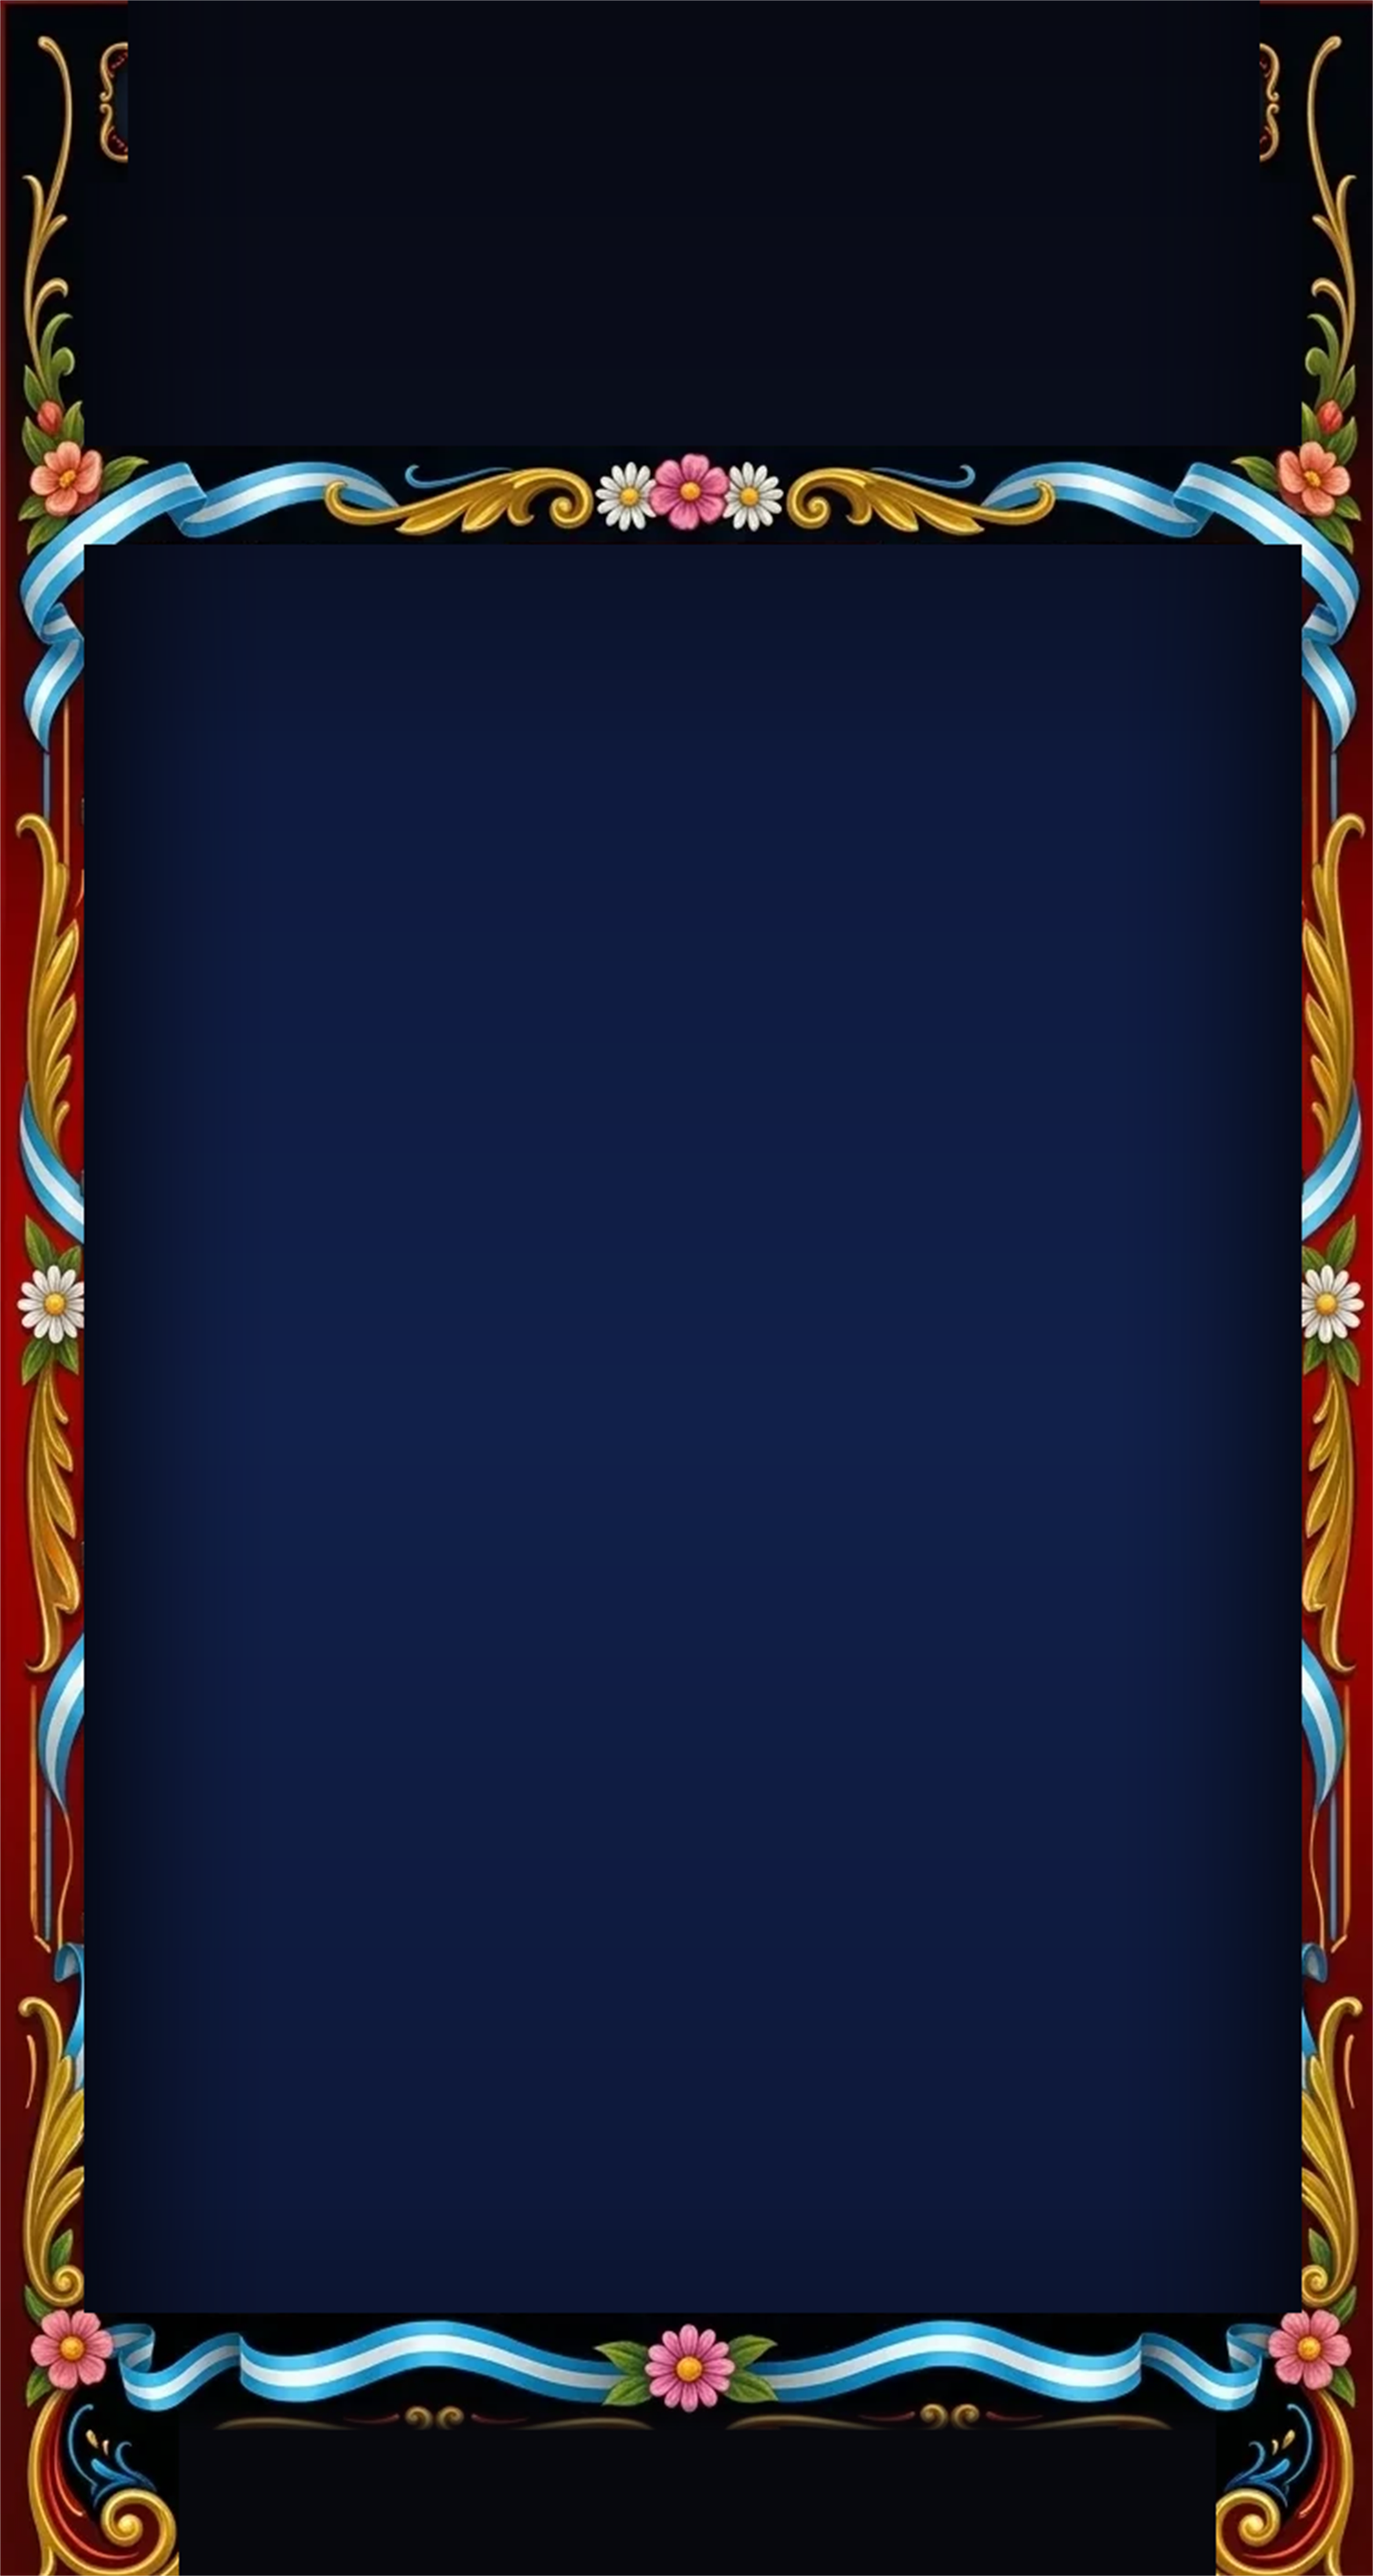
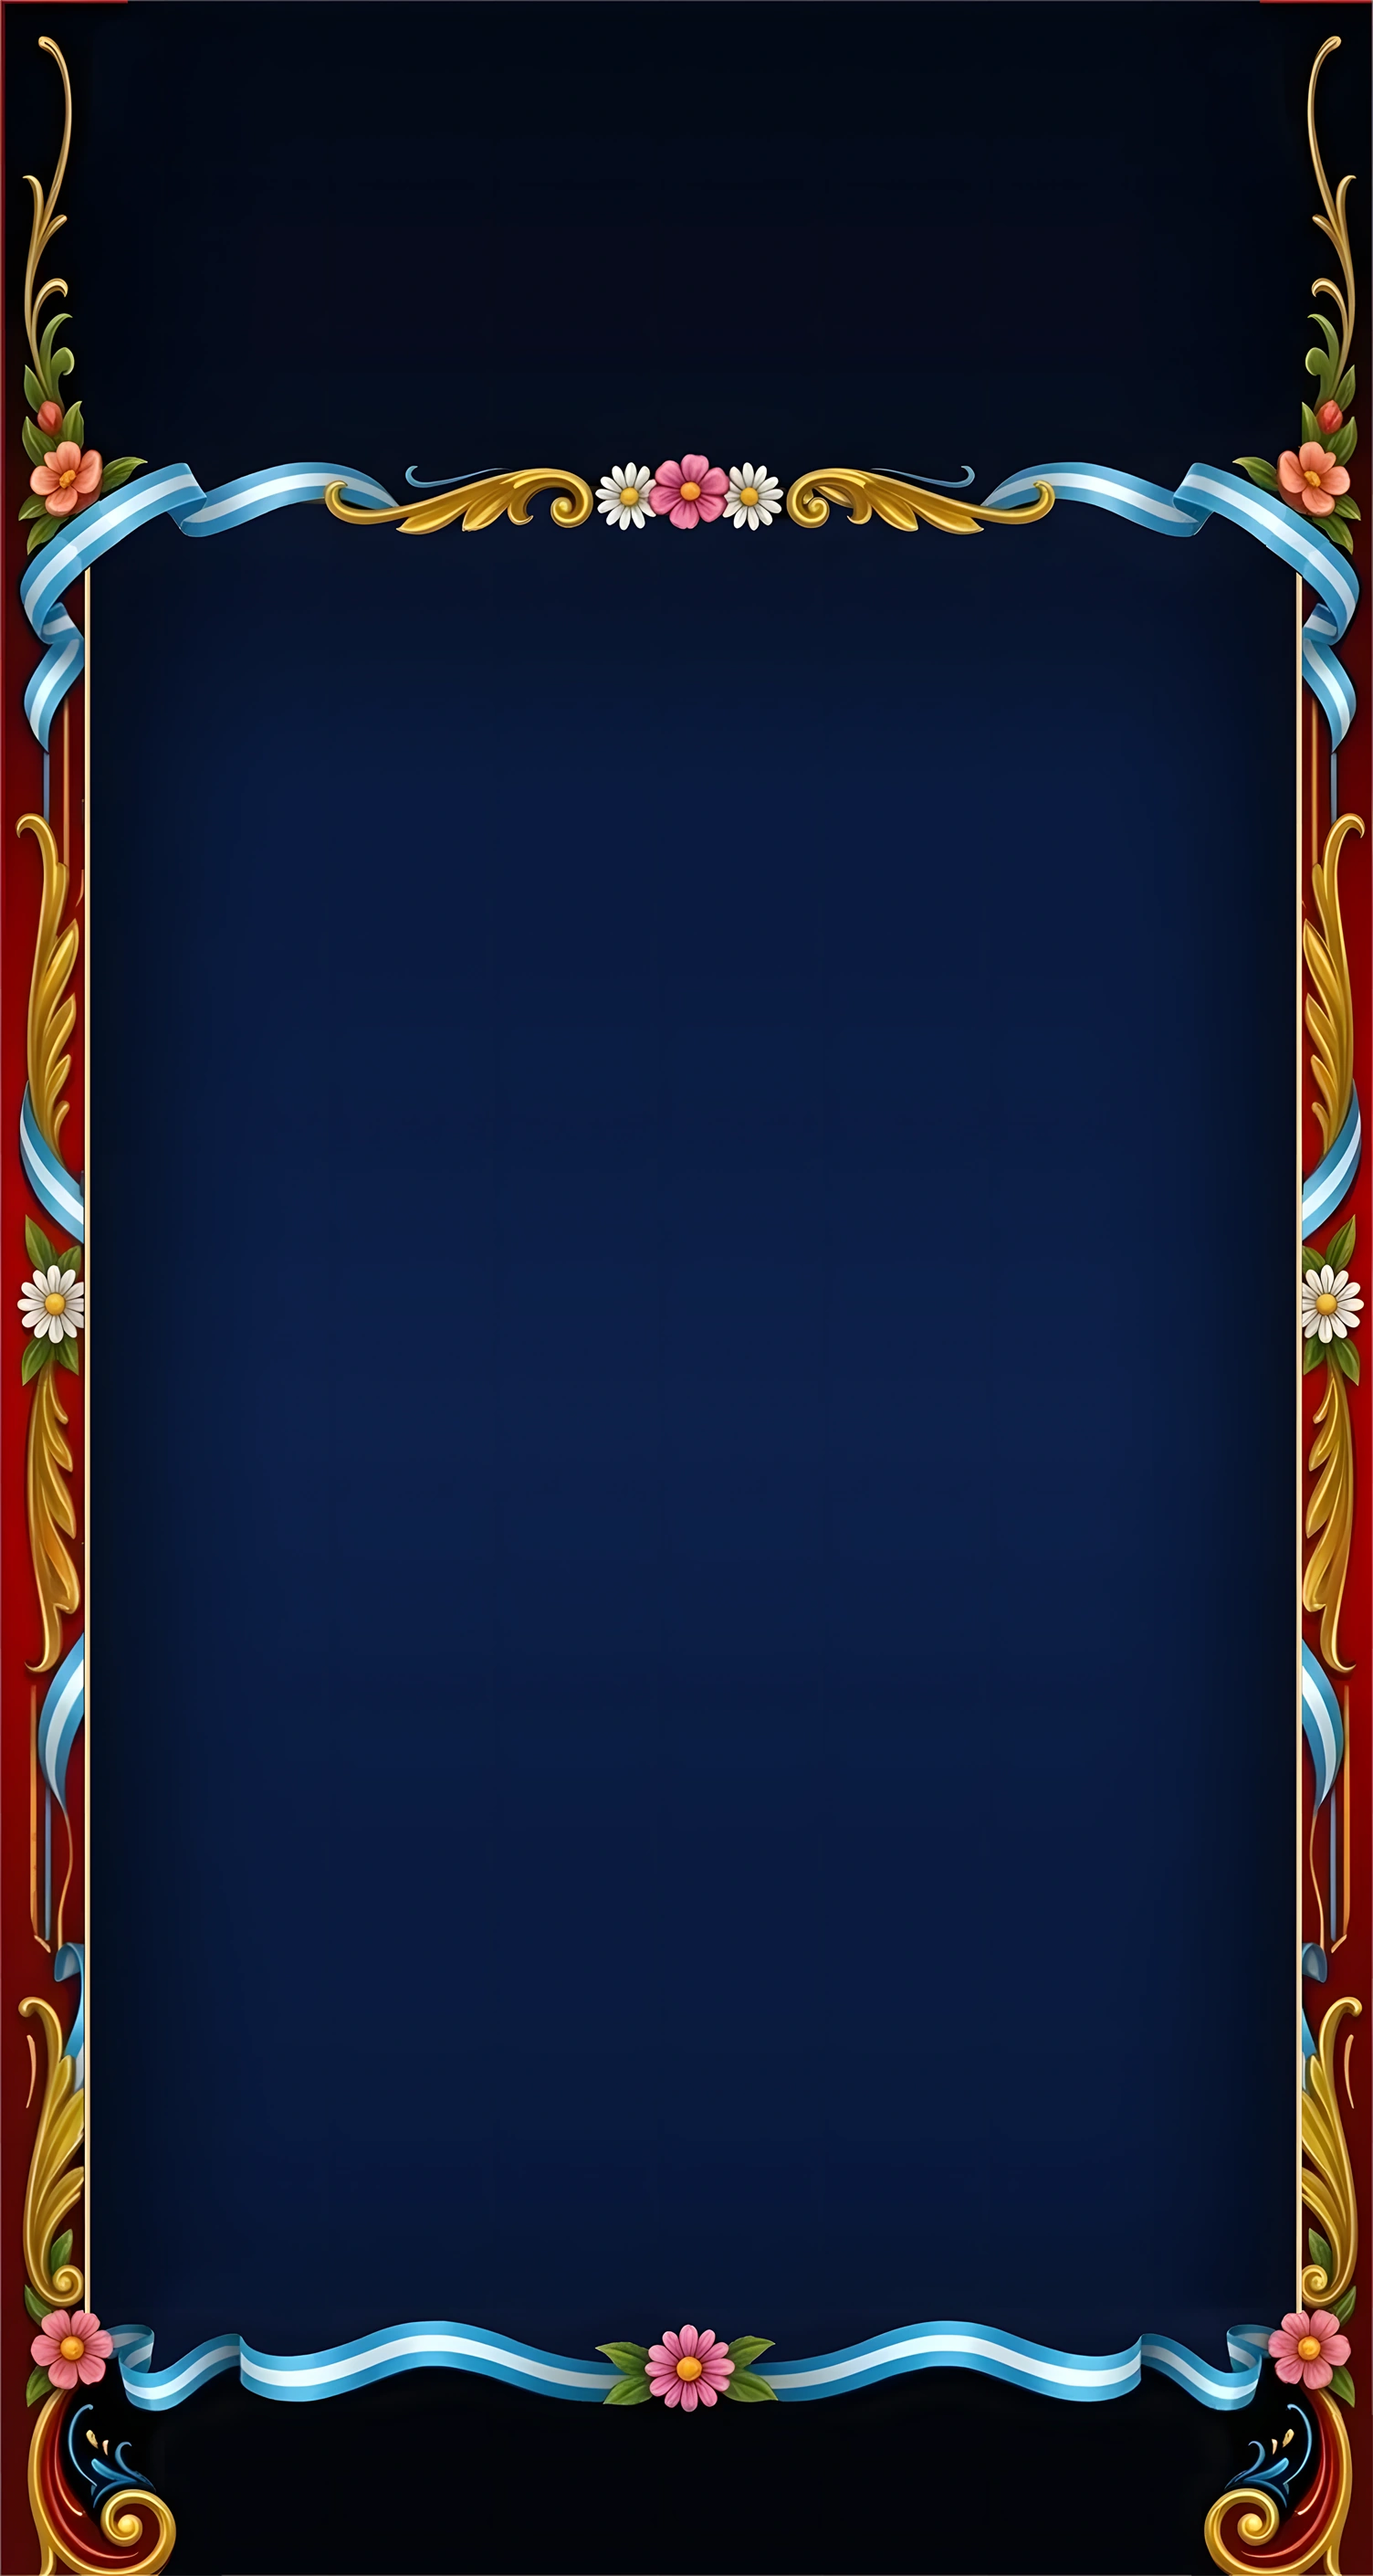
Arte nuevo en mejor calidad: productos a 512 px, envuelto, cartel y marco
- Los 21 productos pasan a WebP de 512 px (calidad 90), desde ARTE/productos.
- El envuelto usa el dibujo nuevo (envuelto.webp) en lugar del SVG.
- Cartel del título recortado sin fondo y marco actualizado.

diff --git a/index.html b/index.html
@@ -1084,7 +1084,7 @@ function elFor(it) {
     el.style.setProperty('--d', (2.2 + Math.random() * 1.6).toFixed(2) + 's');
     el.style.setProperty('--l', (-Math.random() * 3).toFixed(2) + 's');
     el.style.width = G.geo.vw + 'px'; el.style.height = G.geo.ih + 'px';
-    el.innerHTML = `<div class="bob"><img src="${it.w ? 'sprites/envuelto.svg' : SPR(it.t)}" alt="${it.w ? 'Producto envuelto en diario' : nameOf(it.t)}" draggable="false"></div>`;
+    el.innerHTML = `<div class="bob"><img src="${it.w ? 'sprites/envuelto.webp' : SPR(it.t)}" alt="${it.w ? 'Producto envuelto en diario' : nameOf(it.t)}" draggable="false"></div>`;
     if (it.w) el.classList.add('wrapped'); else el.dataset.t = it.t;
     el.it = it;
     $('#board').appendChild(el); els.set(it.id, el);
@@ -2356,7 +2356,7 @@ const TUT = (() => {
     ['Deshacer', `<div class="ico">${ICON.undo}Deshacer</div>`, 'Tocá Deshacer para volver atrás el último movimiento.'],
     ['Pista', `<div class="ico">${ICON.hint}Pista</div>`, 'Tocá Pista para ver un movimiento que sirve. Tenés 3 por nivel.'],
     ['Persiana', '<div class="mini"><div class="shutter"><span class="tag">FALTAN<b>2</b>VENTAS</span></div></div>', 'La persiana cierra un estante. Hacé las ventas que pide su cartel y se abre.'],
-    ['Envuelto', '<div class="swap"><img src="sprites/envuelto.svg" alt="Envuelto"><img src="sprites/mate.webp" alt="Mate"></div>', 'El envuelto es un producto tapado con diario. Se abre con una venta en su estante o en un estante pegado: arriba, abajo o al costado.'],
+    ['Envuelto', '<div class="swap"><img src="sprites/envuelto.webp" alt="Envuelto"><img src="sprites/mate.webp" alt="Mate"></div>', 'El envuelto es un producto tapado con diario. Se abre con una venta en su estante o en un estante pegado: arriba, abajo o al costado.'],
     ['Rotativa', `<div class="belt"><div class="beltbar"></div><div class="carts"><div class="cartp">${img('mate')}</div><div class="cartp">${img('alfajor')}</div><div class="cartp">${img('sifon')}</div></div></div>`, 'Los pliegos de la rotativa funcionan como estantes, aunque se vean cortados. Esperar no gasta movimientos.'],
     ['Caja', img('caja'), 'La caja ocupa un lugar y no se mueve. Se abre con una venta en su estante o en un estante pegado.'],
     ['Caramelo', img('mate') + img('mate') + img('caramelo'), 'El caramelo completa cualquier venta: juntalo con 2 productos iguales.'],
